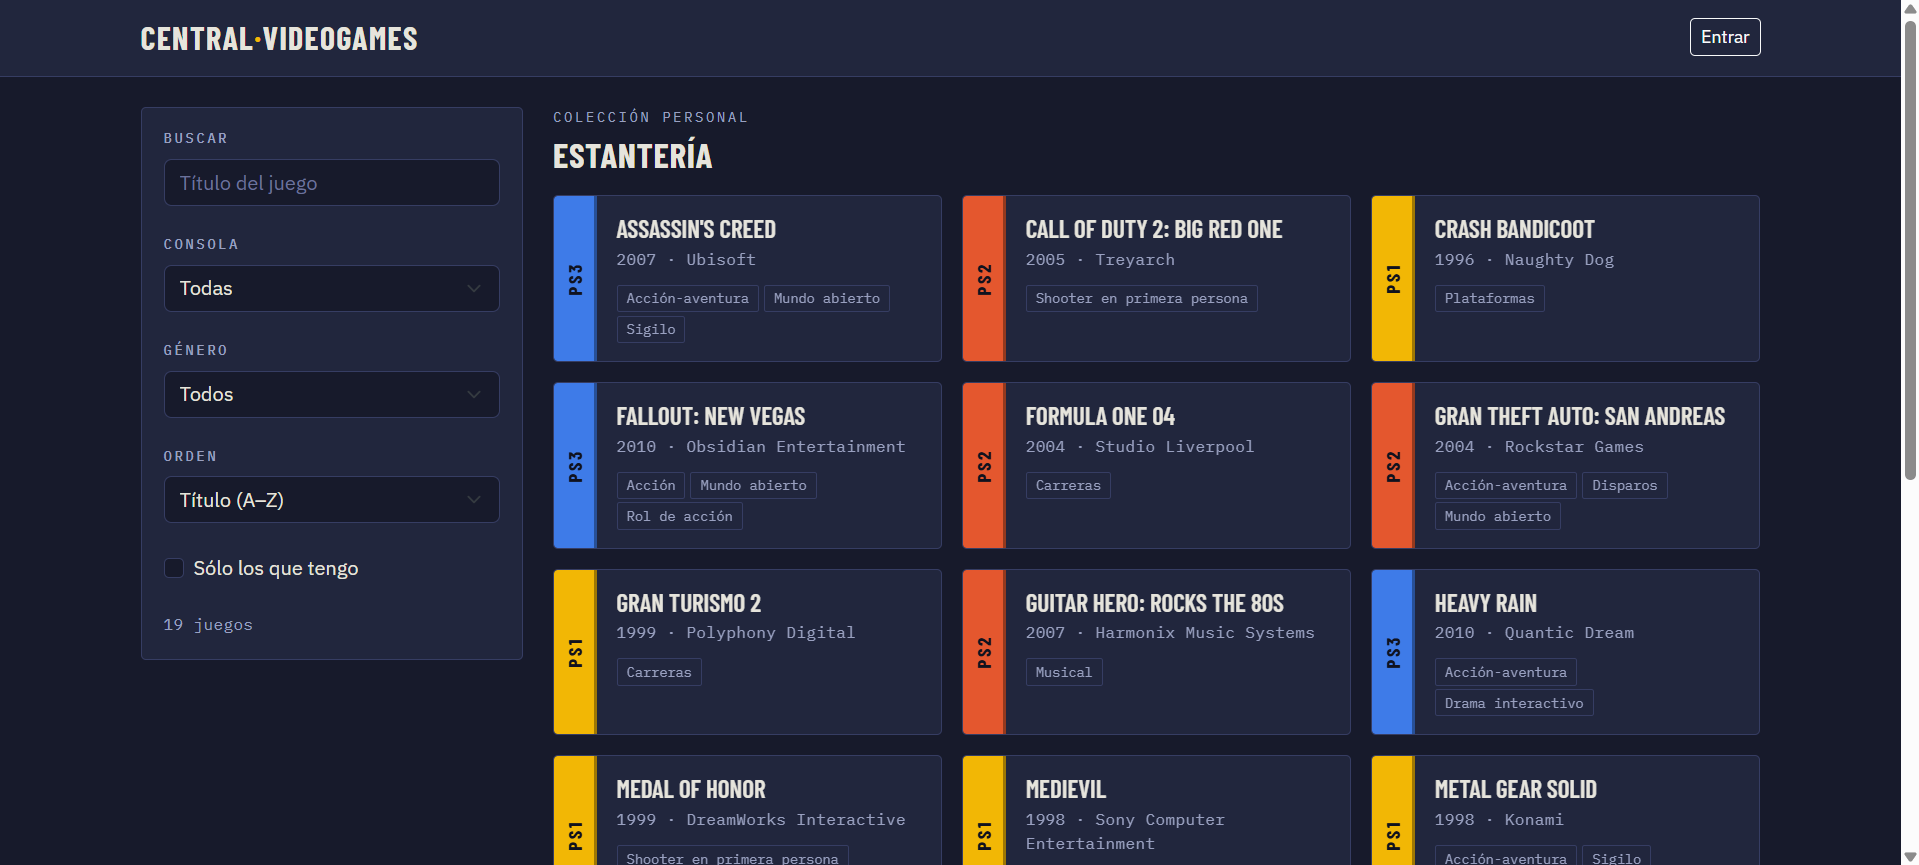
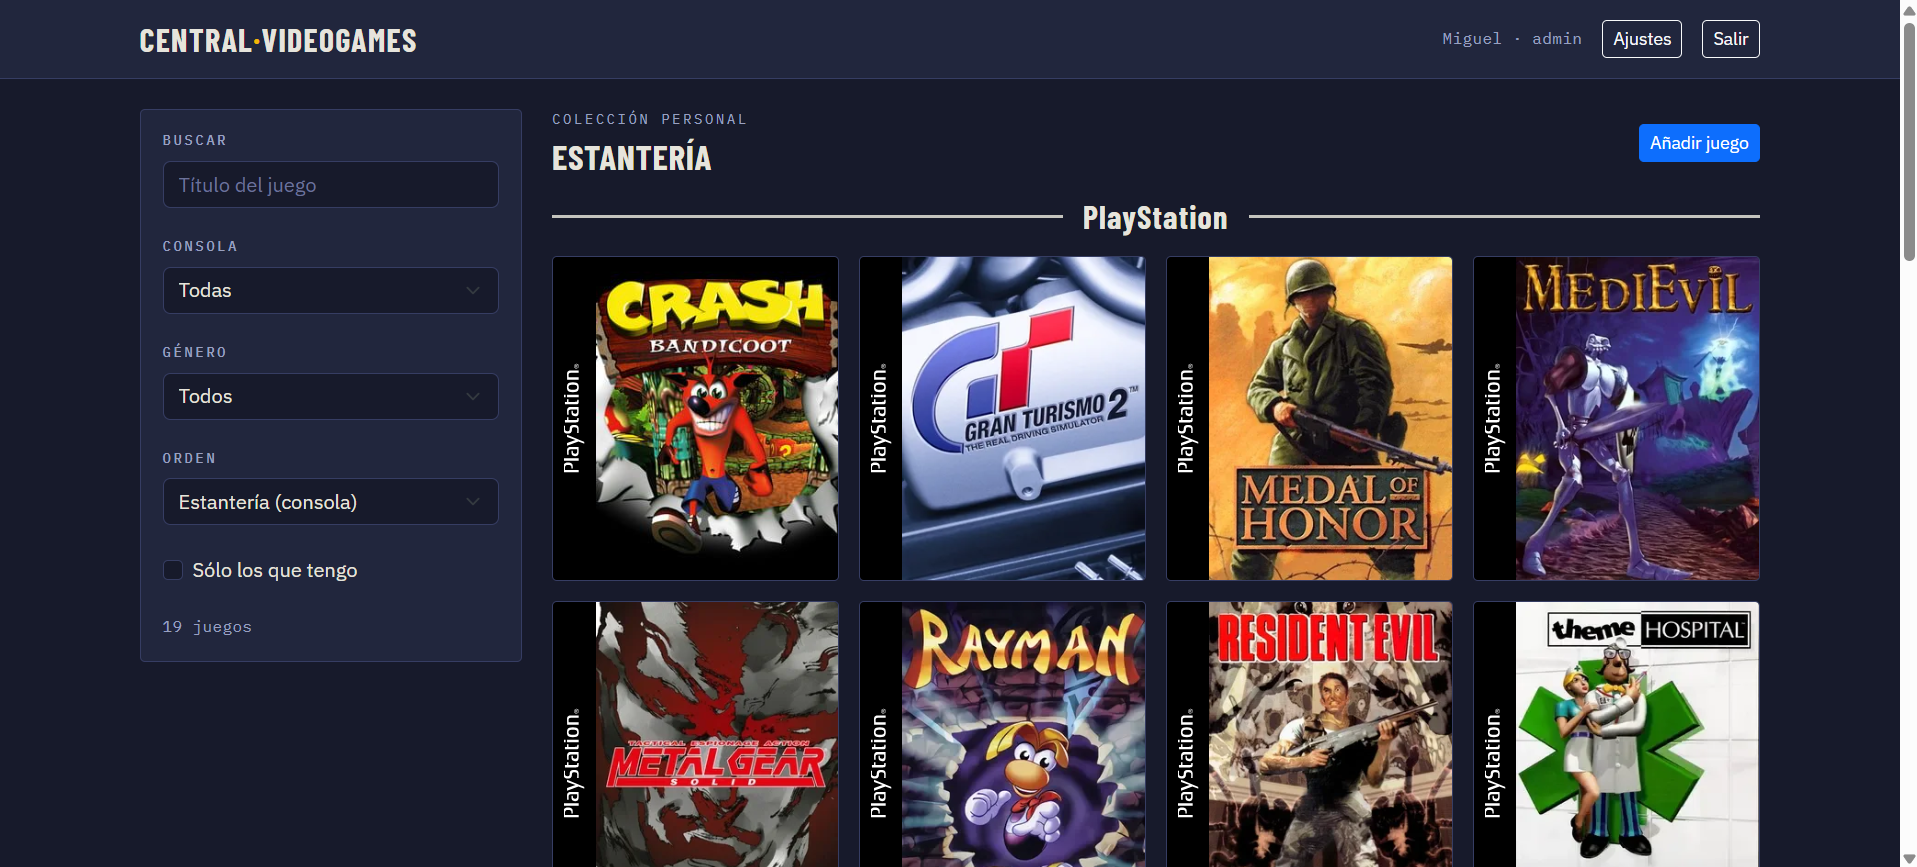
Readme actualizado

diff --git a/README.md b/README.md
@@ -16,7 +16,8 @@ Catálogo web de mi colección personal de videojuegos. Backend en Spring Boot +
 - Catálogo de juegos con portada, plataformas y géneros.
 - Búsqueda por título y filtros por plataforma/género.
 - Ficha de detalle por juego, con sus ediciones (consola, año, región, formato...).
-- Panel de administración (login + alta/edición/borrado de juegos) para el usuario admin.
+- Panel de administración (login + alta/edición/borrado de juegos) para el usuario admin. El juego y todas sus ediciones se guardan juntos, en una sola transacción.
+- Buscador de carátulas en [IGDB](https://www.igdb.com/) dentro del formulario de juego. Si IGDB no tiene la que buscas (por ejemplo, la edición europea), se puede pegar la URL de la imagen a mano.
 
 La idea central del modelo es separar **juego** de **edición**: un juego es la obra (Resident Evil 4), y una edición es el ejemplar concreto en una plataforma (la de GameCube, la de PS2...). Así se pueden representar ports y multiplataforma sin repetir datos.
 
@@ -28,6 +29,7 @@ La idea central del modelo es separar **juego** de **edición**: un juego es la 
 - **Backend:** Java 21, Spring Boot, Spring Data JPA, Spring Security, Maven
 - **Frontend:** React, Vite, React Router, Bootstrap
 - **Despliegue:** Docker (backend) + Render
+- **Carátulas:** API de IGDB (a través de Twitch)
 
 ---
 
@@ -43,7 +45,7 @@ games_collection/
 │       ├── dto/           Records de entrada/salida
 │       ├── controller/    Endpoints REST
 │       ├── security/      Login y configuración de Spring Security
-│       ├── config/        CORS
+│       ├── config/        CORS y cliente de IGDB
 │       └── exception/     Manejo de errores
 │
 ├── frontend/         SPA en React
@@ -64,7 +66,7 @@ games_collection/
 | Tabla | Contenido |
 |---|---|
 | `platforms` | Consolas: nombre, abreviatura, fabricante, año |
-| `games` | La obra: título, año, desarrolladora, distribuidora, sinopsis |
+| `games` | La obra: título, año, desarrolladora, distribuidora, sinopsis, URL de la portada |
 | `editions` | Ejemplar en una plataforma: región, formato, si se posee |
 | `genres` | Catálogo de géneros |
 | `game_genres` | Tabla puente N:M |
@@ -106,7 +108,15 @@ Si las credenciales son correctas, el backend abre una sesión (cookie) que el n
 POST/PUT/DELETE sobre /api/games, /api/platforms, /api/genres, /api/editions
 ```
 
-Solo `games` tiene panel en el frontend por ahora.
+Solo `games` tiene panel en el frontend por ahora. `POST`/`PUT /api/games` aceptan las ediciones del juego en el mismo cuerpo, y la portada (`coverUrl`) tiene que ser una URL `https://`.
+
+### Carátulas (solo admin)
+
+```
+GET  /api/igdb/search?q=gran turismo     Hasta 10 resultados de IGDB
+```
+
+Devuelve, por cada juego, `igdbId`, `name`, `year`, `platforms`, `coverUrl` y `thumbUrl`. Aunque es un `GET`, exige sesión de admin, porque cada búsqueda gasta cuota de la API de IGDB. El token de Twitch se guarda en memoria y se renueva antes de caducar.
 
 ### Códigos de respuesta
 
@@ -117,6 +127,7 @@ Solo `games` tiene panel en el frontend por ahora.
 | `401` / `403` | Sin sesión / sin permiso |
 | `404` | No existe |
 | `409` | Conflicto con la base de datos (duplicado, FK en uso...) |
+| `502` | IGDB no responde o falla (solo en la búsqueda de carátulas) |
 
 ---
 
@@ -168,6 +179,7 @@ En `http://localhost:5173`. Ya trae un `.env.development` con `VITE_API_URL=http
 | `SPRING_DATASOURCE_URL/USERNAME/PASSWORD` | backend | Conexión a PostgreSQL |
 | `APP_CORS_ALLOWED_ORIGINS` | backend | Orígenes permitidos por CORS |
 | `SPRING_PROFILES_ACTIVE` | backend | `prod` en despliegue |
+| `IGDB_CLIENT_ID` / `IGDB_CLIENT_SECRET` | backend | Credenciales de la app de Twitch para IGDB (opcionales: sin ellas todo funciona menos el buscador de carátulas) |
 | `VITE_API_URL` | frontend | URL de la API |
 
 ---
@@ -180,18 +192,18 @@ Cosas problemáticas al principio:
 
 - Render da la URL de conexión como `postgres://usuario:contraseña@host/base` y el driver JDBC quiere `jdbc:postgresql://host/base`, así que hay que separarlo en variables.
 - El Static Site necesita una regla de *rewrite* `/*` → `/index.html` para que las rutas de React funcionen al entrar directamente (por ejemplo `/juegos/3`).
+- Las credenciales de IGDB se sacan registrando una aplicación en la [consola de desarrolladores de Twitch](https://dev.twitch.tv/console/apps) y se cargan como variables de entorno del backend.
 
 ---
 
 ## Estado y siguientes pasos
 
-Funcionando: catálogo completo, búsqueda, filtros, ficha de detalle, login y panel de administración para juegos.
+Funcionando: catálogo completo con portadas, búsqueda, filtros, ficha de detalle, login, panel de administración para juegos y buscador de carátulas en IGDB.
 
 Pendiente:
 
-- Tests
+- Más tests (de momento cubren la integración con IGDB y la validación de las portadas)
 - Paginación en el listado
-- Imágenes de portada
 - Panel de administración para plataformas y géneros
 - CI
 
